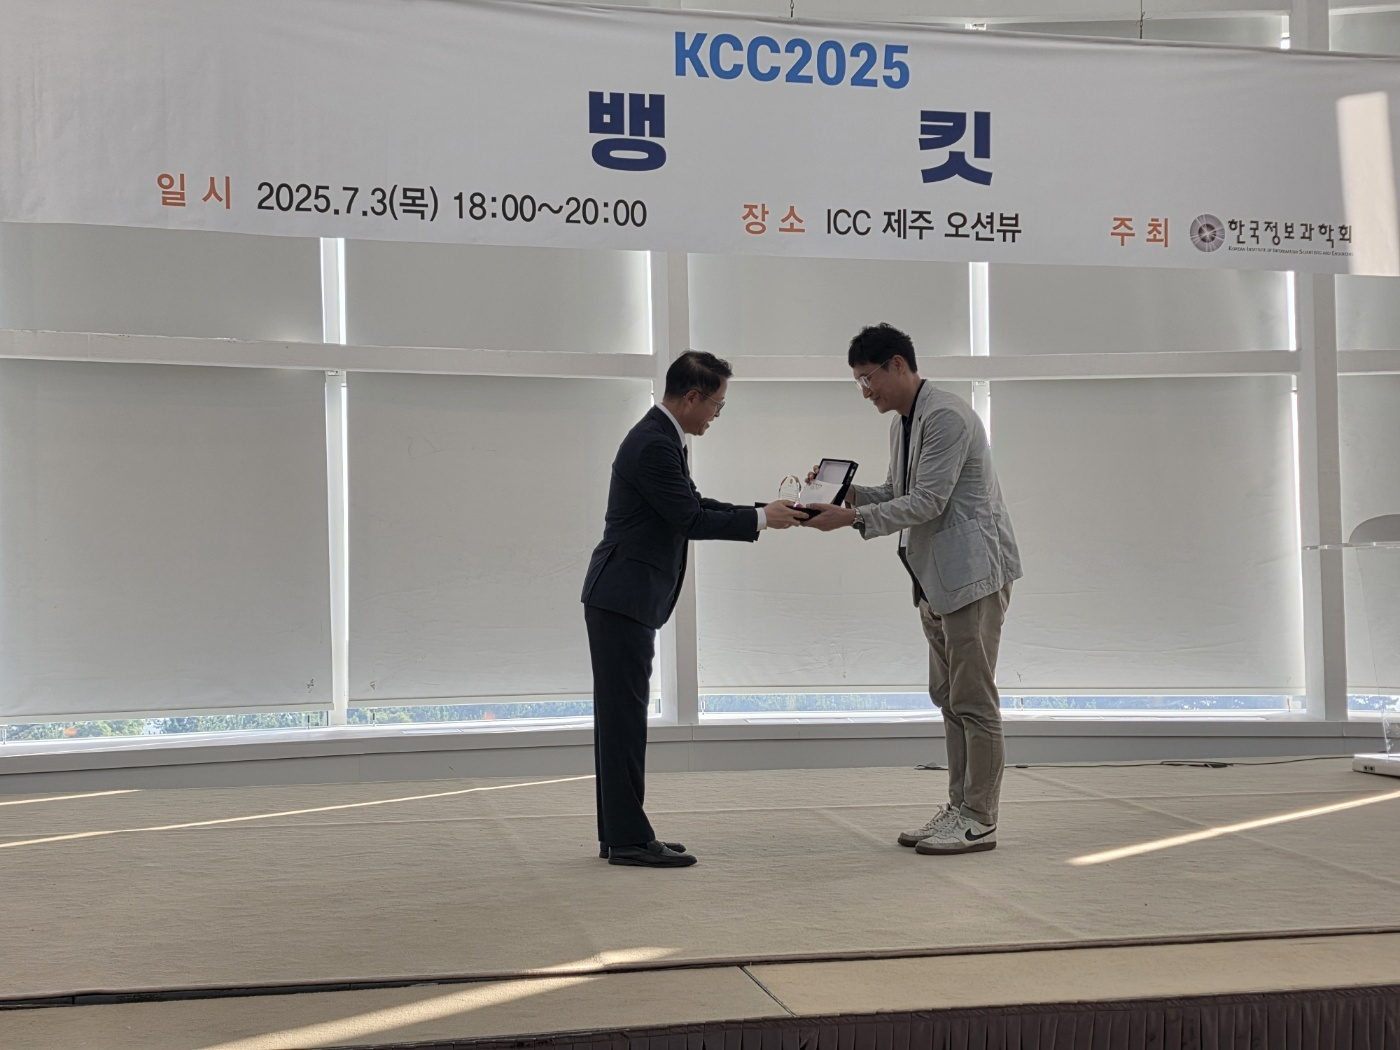
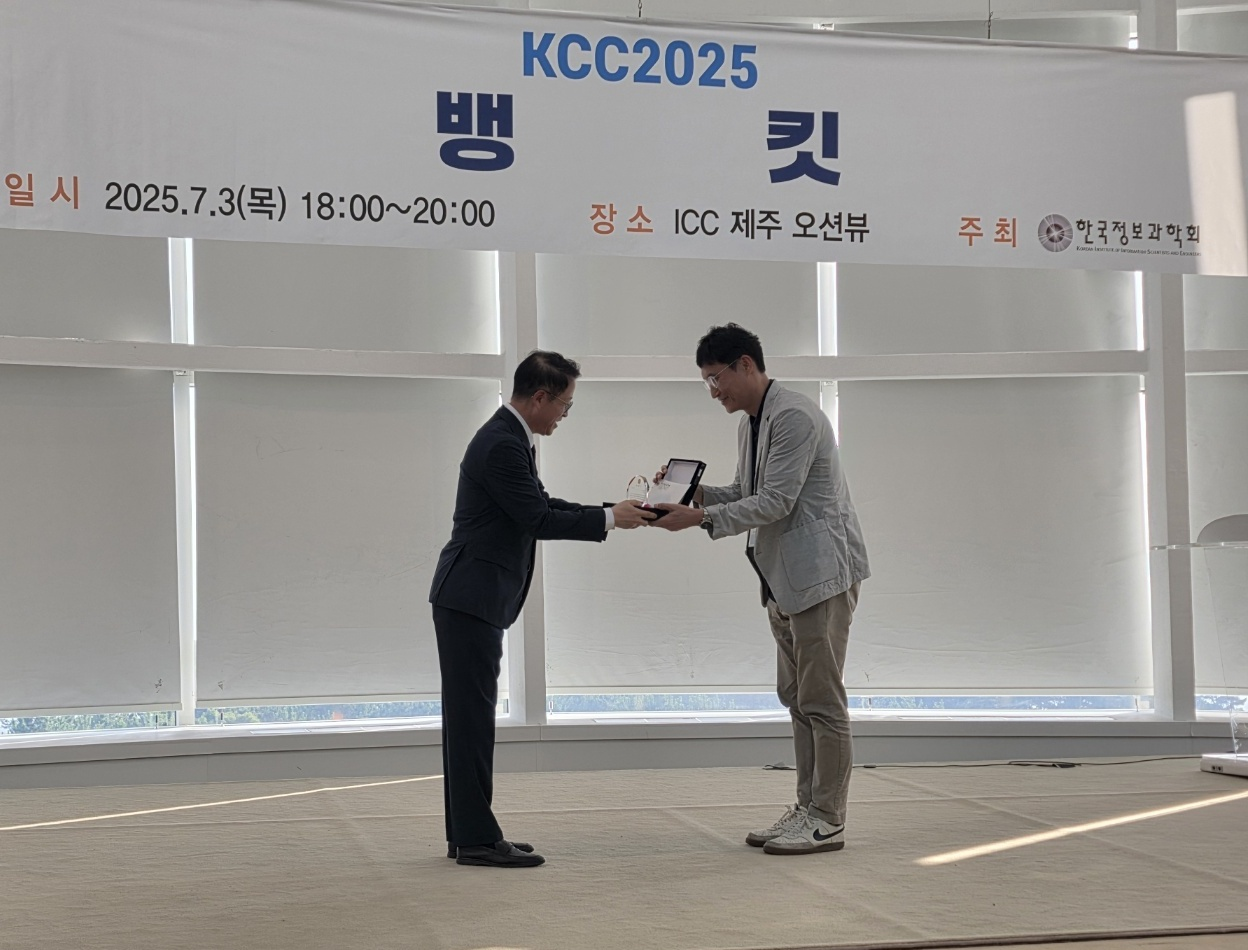
0707: change branch name & picture adjustments

diff --git a/index.html b/index.html
@@ -15,8 +15,8 @@ title: NLPLAB
 
 
 <div class="slider">
-  <div><img class = "center" src="assets/img/slider/2025_07_professor_award.jpg" max-width="150%" height="auto" title = "25년 7월: 고영중 교수님 한국정보과학회 학술상 수상"/></div>
-  <div><img class = "center" src="assets/img/slider/2025_07_professor_award_v2.jpg" max-width="150%" height="auto" title = "25년 7월: 고영중 교수님 한국정보과학회 학술상 수상"/></div>
+  <!-- <div><img class = "center" src="assets/img/slider/2025_07_professor_award.jpg" max-width="150%" height="auto" title = "25년 7월: 고영중 교수님 한국정보과학회 학술상 수상"/></div>
+  <div><img class = "center" src="assets/img/slider/2025_07_professor_award_v2.jpg" max-width="150%" height="auto"/></div>
   <div><img class = "center" src="assets/img/slider/2025_02_graduation.png" max-width="150%" height="auto" title = "25년 2월: 지열, 현묵, 하은, 수영, 승민, 윤진, 근하 선배 졸업"/></div>
   <div><img class = "center" src="assets/img/slider/2025_02_graduation_v2.png" max-width="150%" height="auto" title = "25년 2월: 지열, 현묵, 하은, 수영, 승민, 윤진, 근하 선배 졸업"/></div>
   <div><img class = "center" src="assets/img/slider/2024_12_ksc.png" max-width="150%" height="auto" title = "24년 12월:여수 KSC 학회 참석"/></div>
@@ -24,7 +24,17 @@ title: NLPLAB
   <div><img class = "center" src="assets/img/slider/2024_08_graduation.jpg" max-width="150%" height="auto" title = "24년 8월:진영 선배 졸업"/></div>
 	<div><img class = "center" src="assets/img/slider/2024_08_ashley.jpg" max-width="150%" height="auto" title = "24년 8월:에슐리 회식"/></div>
 	<div><img class = "center" src="assets/img/slider/2024_02_graduation.jpg" max-width="150%" height="auto" title = "24년 2월:영재, 홍희, 재아, 규리 선배 졸업"/></div>
-  <div><img class = "center" src="assets/img/slider/2023_01_emnlp.png" max-width="150%" height="auto" title = "23년 12월:Singapore EMNLP 학회 참석"/></div>
+  <div><img class = "center" src="assets/img/slider/2023_01_emnlp.png" max-width="150%" height="auto" title = "23년 12월:Singapore EMNLP 학회 참석"/></div> -->
+  <div><img class = "center" src="assets/img/slider/2025_07_professor_award.jpg" style="width:100%; height:auto; object-fit:contain;" title = "25년 7월: 고영중 교수님 한국정보과학회 학술상 수상"/></div>
+  <div><img class = "center" src="assets/img/slider/2025_07_professor_award_v2.jpg" style="width:100%; height:auto; object-fit:contain;"/></div>
+  <div><img class = "center" src="assets/img/slider/2025_02_graduation.png" style="width:100%; height:auto; object-fit:contain;" title = "25년 2월: 지열, 현묵, 하은, 수영, 승민, 윤진, 근하 선배 졸업"/></div>
+  <div><img class = "center" src="assets/img/slider/2025_02_graduation_v2.png" style="width:100%; height:auto; object-fit:contain;" title = "25년 2월: 지열, 현묵, 하은, 수영, 승민, 윤진, 근하 선배 졸업"/></div>
+  <div><img class = "center" src="assets/img/slider/2024_12_ksc.png" style="width:100%; height:auto; object-fit:contain;" title = "24년 12월:여수 KSC 학회 참석"/></div>
+  <div><img class = "center" src="assets/img/slider/2024_10_emnlp.jpg" style="width:100%; height:auto; object-fit:contain;" title = "24년 10월:Miami EMNLP 학회 참석"/></div>
+  <div><img class = "center" src="assets/img/slider/2024_08_graduation.jpg" style="width:100%; height:auto; object-fit:contain;" title = "24년 8월:진영 선배 졸업"/></div>
+	<div><img class = "center" src="assets/img/slider/2024_08_ashley.jpg" style="width:100%; height:auto; object-fit:contain;" title = "24년 8월:에슐리 회식"/></div>
+	<div><img class = "center" src="assets/img/slider/2024_02_graduation.jpg" style="width:100%; height:auto; object-fit:contain;" title = "24년 2월:영재, 홍희, 재아, 규리 선배 졸업"/></div>
+  <div><img class = "center" src="assets/img/slider/2023_01_emnlp.png" style="width:100%; height:auto; object-fit:contain;" title = "23년 12월:Singapore EMNLP 학회 참석"/></div>
 </div>
 
 <br>
